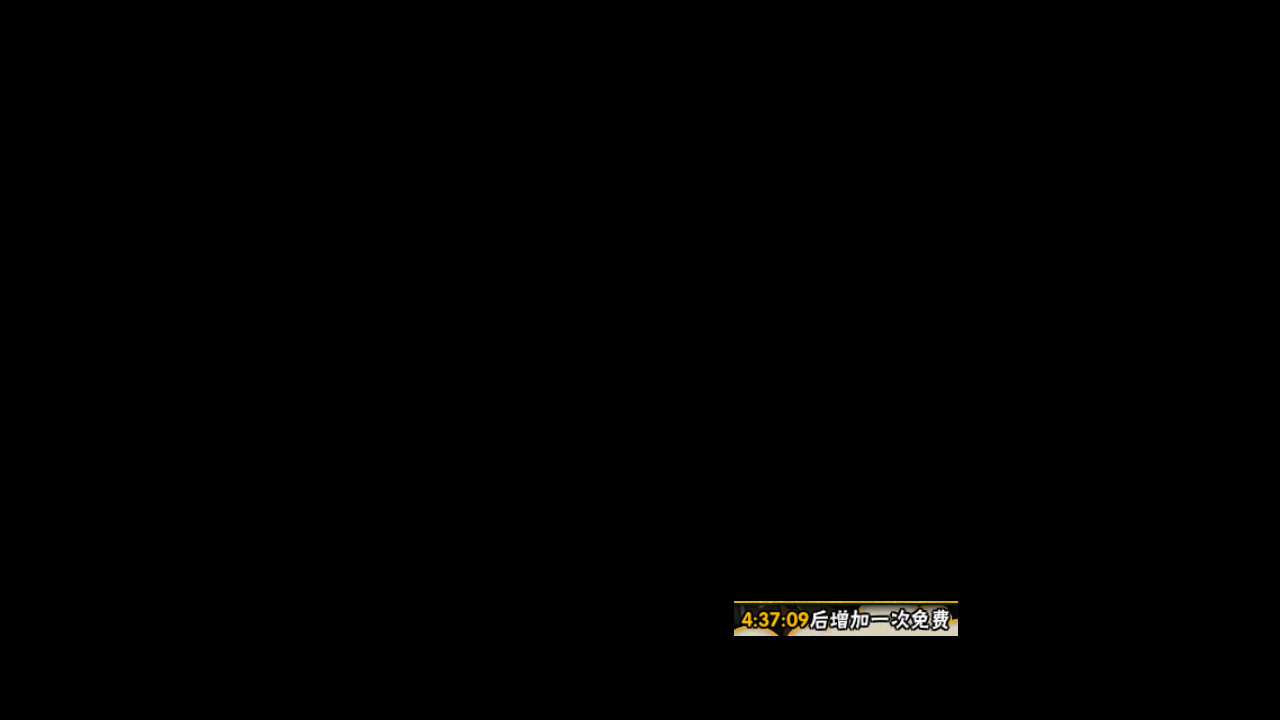
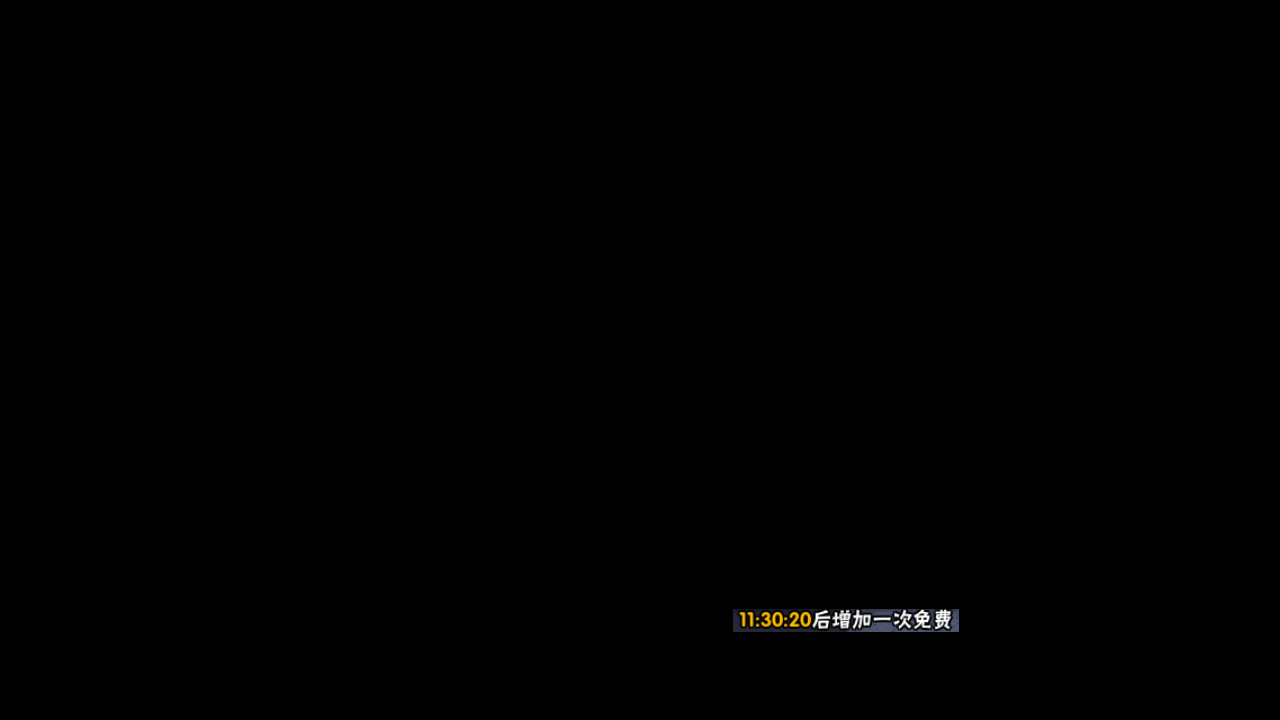
fix(store): 适配新版普通招募UI

Changed region(s): [[0.5625, 0.825, 0.75, 0.8861]]

diff --git a/tasks/recruit/assets/assets_recruit.py b/tasks/recruit/assets/assets_recruit.py
@@ -29,10 +29,10 @@ NORMAL_RECRUIT_FREE_BUTTON = ButtonWrapper(
     name='NORMAL_RECRUIT_FREE_BUTTON',
     cn=Button(
         file='./assets/cn/recruit/NORMAL_RECRUIT_FREE_BUTTON.png',
-        area=(764, 543, 853, 605),
-        search=(744, 523, 873, 625),
-        color=(93, 88, 62),
-        button=(764, 543, 853, 605),
+        area=(735, 559, 834, 597),
+        search=(715, 539, 854, 617),
+        color=(85, 83, 60),
+        button=(735, 559, 834, 597),
     ),
     en=None,
 )
@@ -40,10 +40,10 @@ NORMAL_RECRUIT_FREE_DONE = ButtonWrapper(
     name='NORMAL_RECRUIT_FREE_DONE',
     cn=Button(
         file='./assets/cn/recruit/NORMAL_RECRUIT_FREE_DONE.png',
-        area=(712, 547, 967, 609),
-        search=(692, 527, 987, 629),
-        color=(107, 99, 51),
-        button=(712, 547, 967, 609),
+        area=(733, 559, 960, 602),
+        search=(713, 539, 980, 622),
+        color=(110, 107, 55),
+        button=(733, 559, 960, 602),
     ),
     en=None,
 )
@@ -51,10 +51,10 @@ NORMAL_RECRUIT_REMAIN_TIMES = ButtonWrapper(
     name='NORMAL_RECRUIT_REMAIN_TIMES',
     cn=Button(
         file='./assets/cn/recruit/NORMAL_RECRUIT_REMAIN_TIMES.png',
-        area=(734, 601, 958, 636),
-        search=(714, 581, 978, 656),
-        color=(121, 112, 83),
-        button=(734, 601, 958, 636),
+        area=(733, 609, 959, 632),
+        search=(713, 589, 979, 652),
+        color=(89, 85, 74),
+        button=(733, 609, 959, 632),
     ),
     en=None,
 )

diff --git a/tasks/store_purchase/selector.py b/tasks/store_purchase/selector.py
@@ -73,7 +73,8 @@ class StoreSelector:
                 continue
             if click_interval.reached():
                 currency=self.currency_recognition()
-                if pre_currency < currency:
+                if pre_currency > currency:
+                    pre_currency=currency
                     purchase_times += 1
                     logger.info(f"Purchase confirmed ({purchase_times}/{item.count}).")
                 if purchase_times >= item.count:
